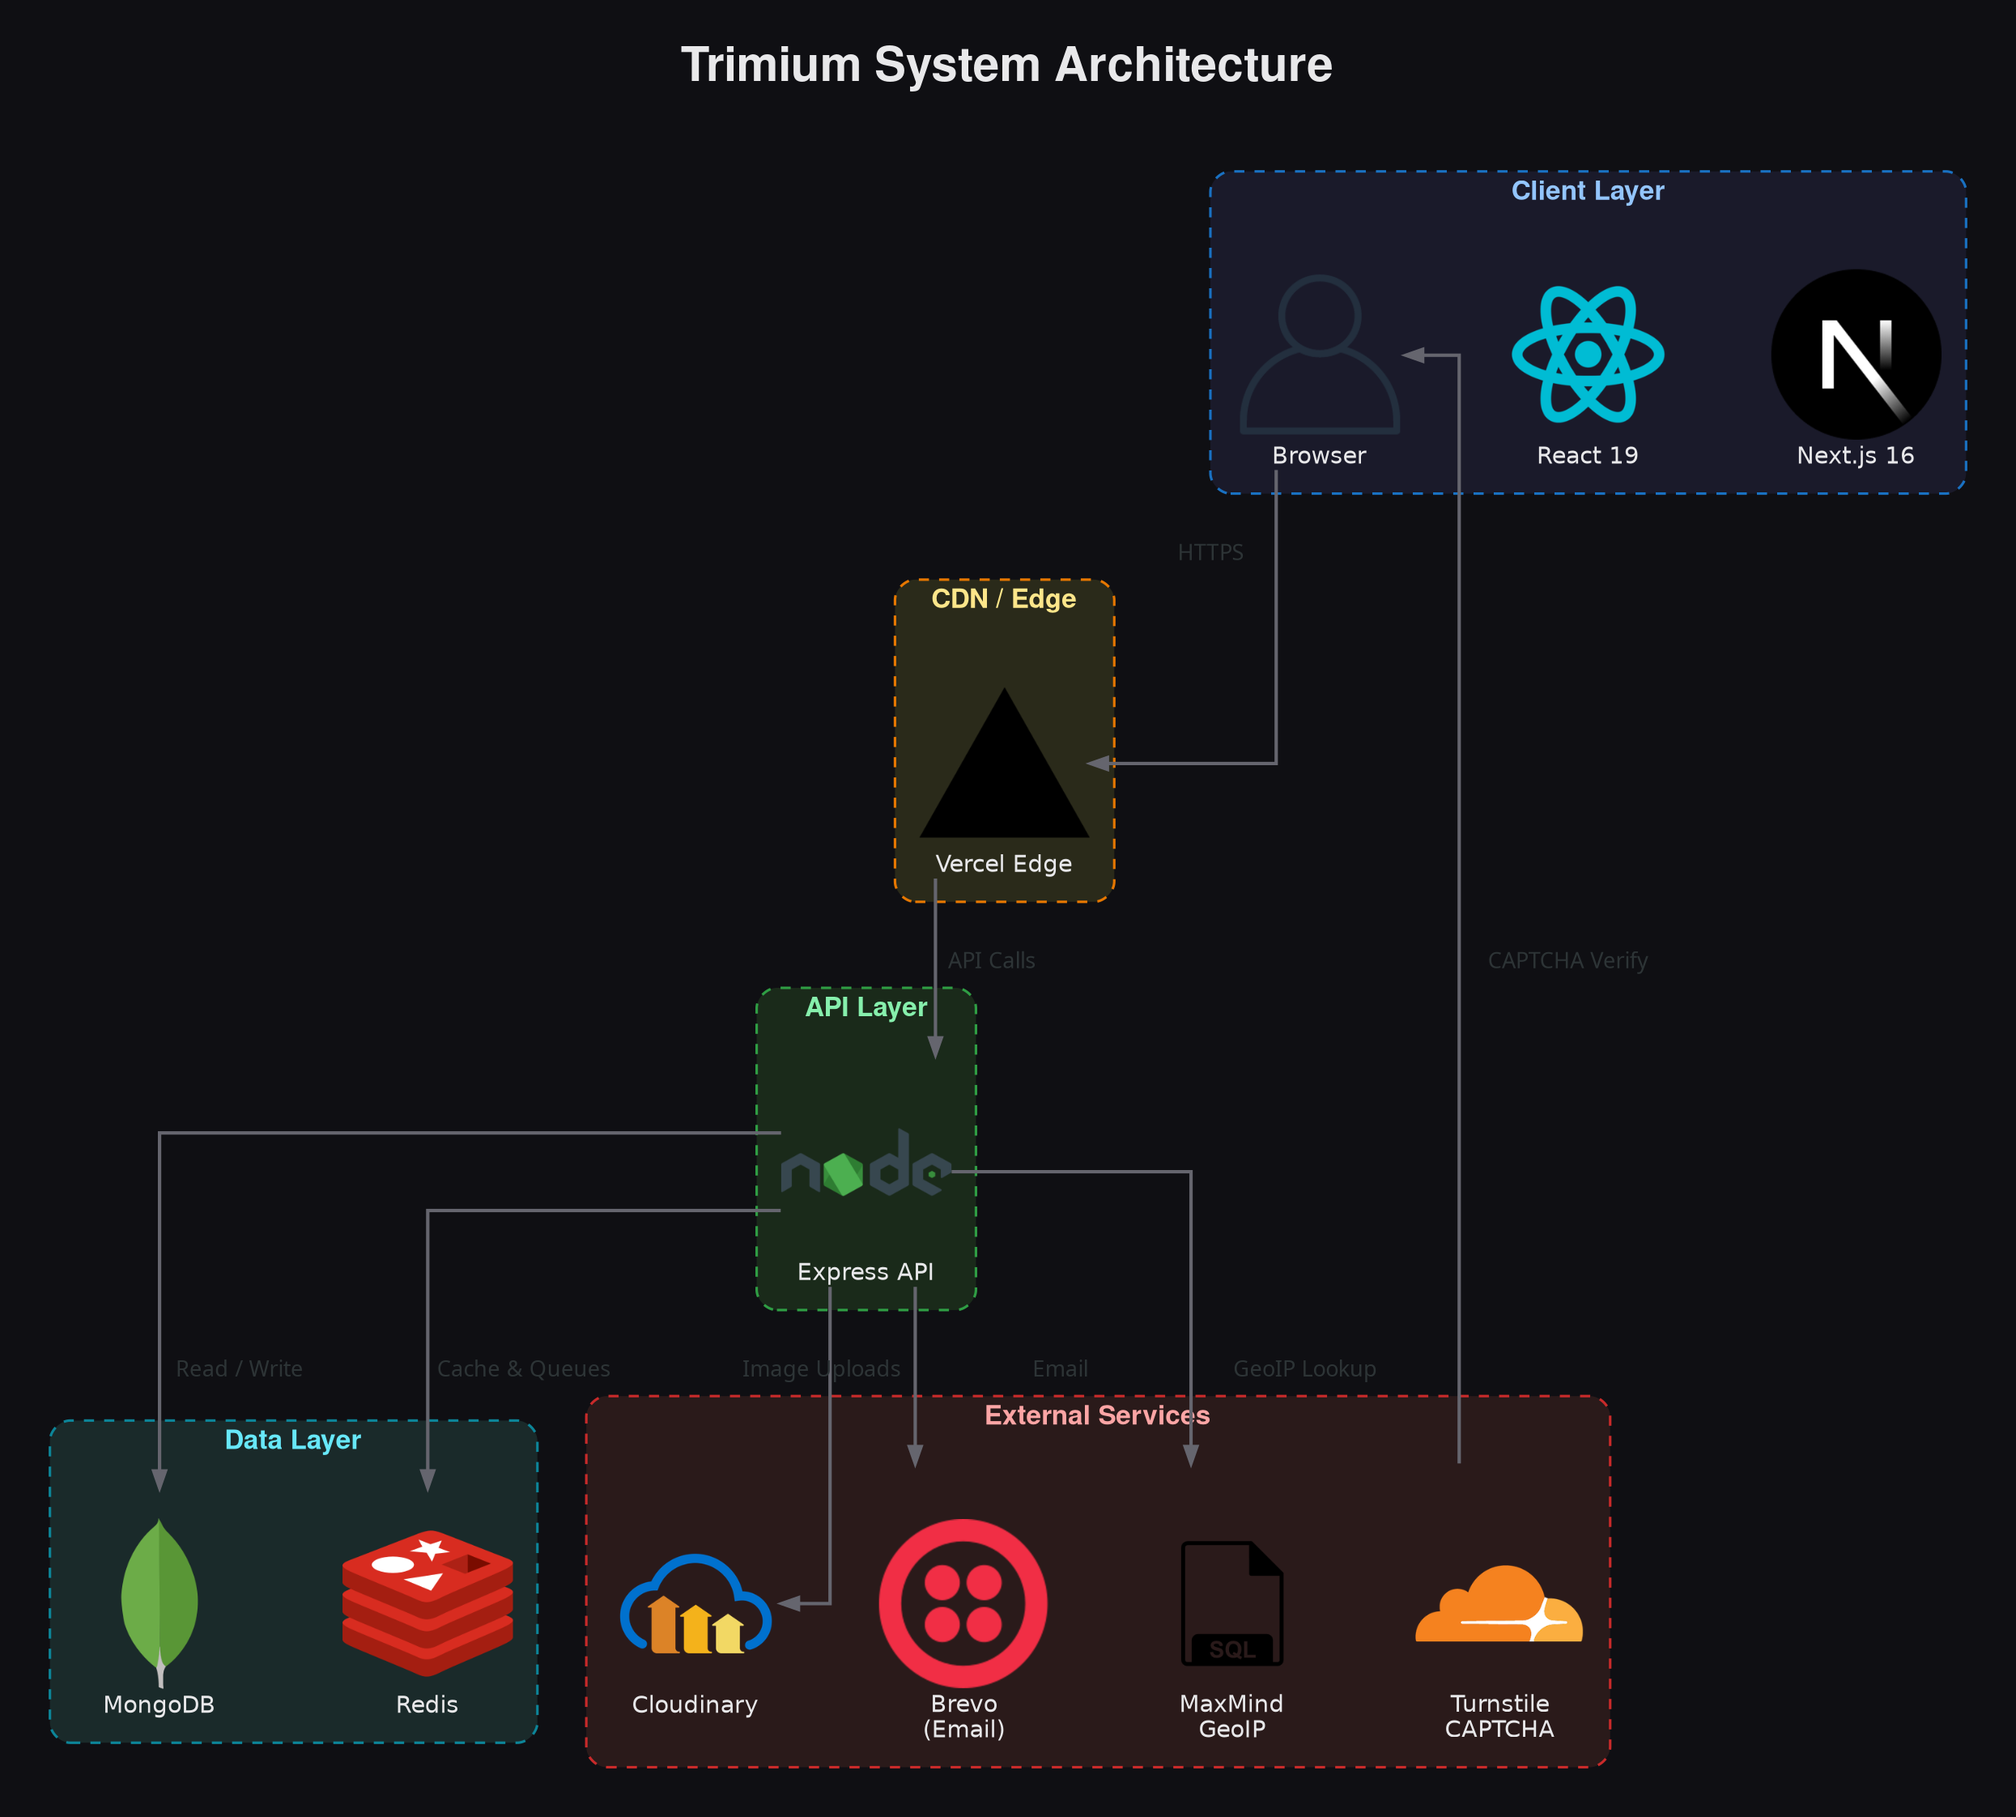
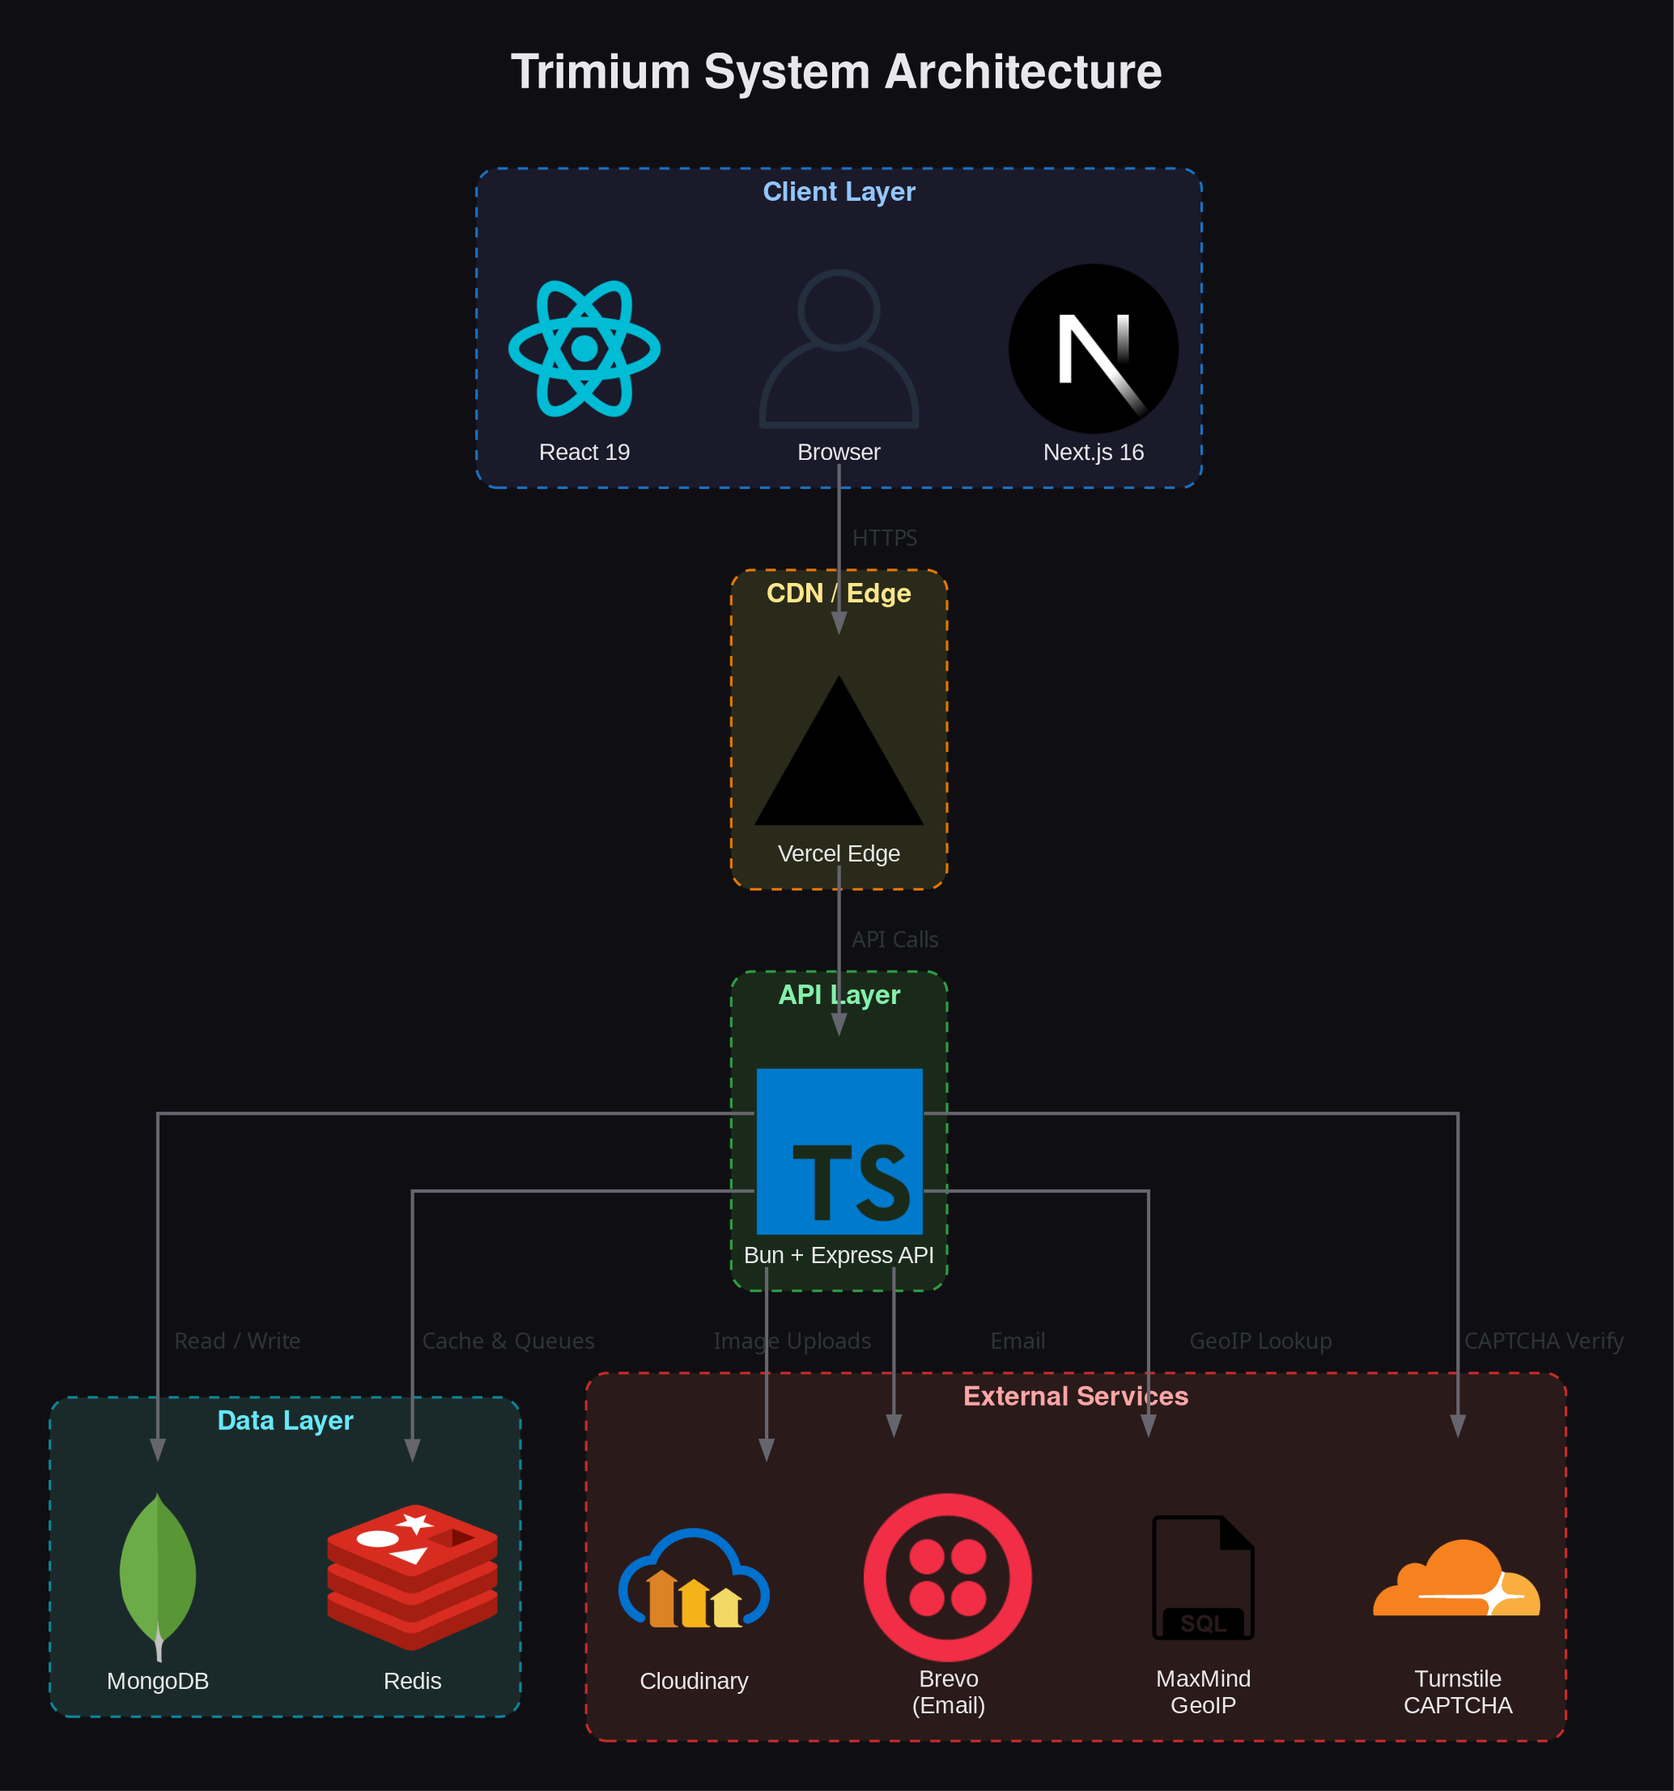
update: diagram

diff --git a/scripts/generate-architecture.py b/scripts/generate-architecture.py
@@ -3,7 +3,7 @@
 
 from diagrams import Diagram, Cluster, Edge
 from diagrams.programming.framework import NextJs, React, Vercel
-from diagrams.programming.language import NodeJS
+from diagrams.programming.language import TypeScript
 from diagrams.onprem.database import MongoDB
 from diagrams.onprem.inmemory import Redis
 from diagrams.onprem.client import User
@@ -48,8 +48,8 @@ def gen(dark: bool):
         "fontsize": "28",
         "fontname": "Helvetica Bold",
         "pad": "0.3",
-        "nodesep": "0.8",
-        "ranksep": "1.2",
+        "nodesep": "0.7",
+        "ranksep": "1.0",
         "dpi": "150",
         "label": "Trimium System Architecture\n\n",
         "labelloc": "t",
@@ -99,10 +99,13 @@ def gen(dark: bool):
         e = lambda **kw: Edge(color=edge_color, **kw)
 
         # ---- Client Layer ----
+        # Browser is the node that carries the edge down to Vercel, so it is
+        # declared in the middle of the row -> keeps it centred over the
+        # Vercel / API / Data spine instead of drifting to one side.
         with Cluster("Client Layer", graph_attr=cattr("blue")):
-            nextjs = NextJs("Next.js 16")
             react = React("React 19")
             browser = User("Browser")
+            nextjs = NextJs("Next.js 16")
 
         # ---- CDN / Edge ----
         with Cluster("CDN / Edge", graph_attr=cattr("yellow")):
@@ -110,7 +113,7 @@ def gen(dark: bool):
 
         # ---- API Layer ----
         with Cluster("API Layer", graph_attr=cattr("green")):
-            api = NodeJS("Express API")
+            api = TypeScript("Bun + Express API")
 
         # ---- Data Layer ----
         with Cluster("Data Layer", graph_attr=cattr("cyan")):
@@ -124,20 +127,21 @@ def gen(dark: bool):
             maxmind = SQL("MaxMind\nGeoIP")
             turnstile = Cloudflare("Turnstile\nCAPTCHA")
 
-        # ---- Edges ----
+        # ---- Main vertical spine ----
         browser >> e(label="  HTTPS  ") >> vercel
         vercel >> e(label="  API Calls  ") >> api
 
+        # ---- API fan-out (kept in one consistent left-to-right order so
+        # the elbowed edges step down evenly instead of crossing) ----
         api >> e(label="  Read / Write  ") >> mongo
         api >> e(label="  Cache & Queues  ") >> redis
         api >> e(label="  Image Uploads  ") >> cloudinary
         api >> e(label="  Email  ") >> brevo
         api >> e(label="  GeoIP Lookup  ") >> maxmind
-
-        turnstile >> e(label="  CAPTCHA Verify  ") >> browser
-
-        # Force data + external clusters side by side
-        mongo >> Edge(style="invis", color=edge_color) >> cloudinary
+        # CAPTCHA verification is a server-side call the API makes to
+        # Cloudflare, mirroring the other External Service calls above
+        # instead of a long edge that ran back up across the whole diagram.
+        api >> e(label="  CAPTCHA Verify  ") >> turnstile
 
 
 gen(dark=False)
